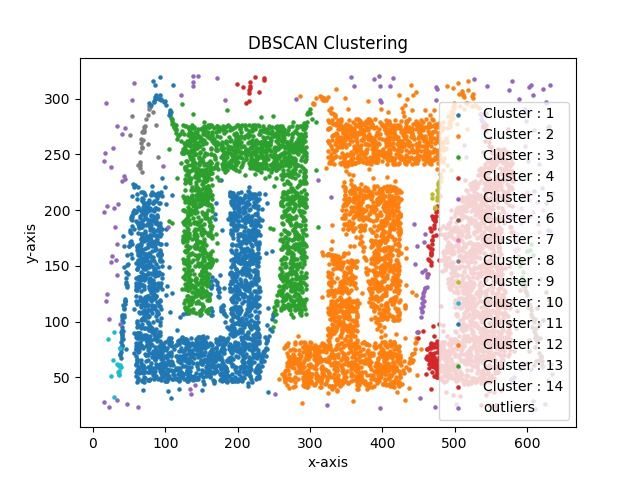
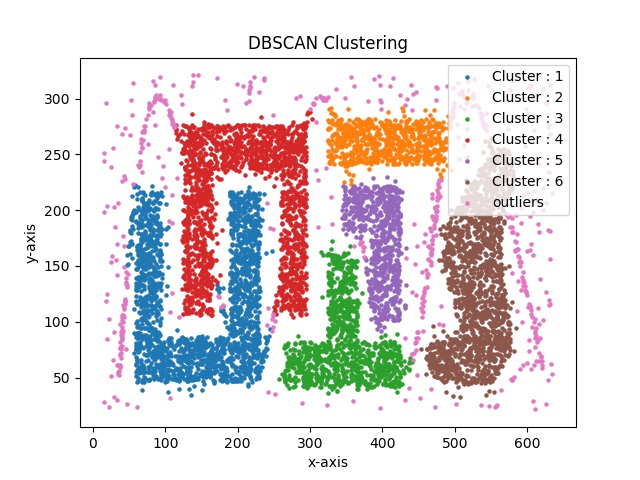
dbscan fixed

diff --git a/Cloud-Computing/dbscan/dbscan.py b/Cloud-Computing/dbscan/dbscan.py
@@ -1,3 +1,12 @@
+#!/bin/usr/python
+'''
+Author: SaiKumar Immadi
+Basic DBSCAN clustering algorithm written in python
+5th Semester @ IIIT Guwahati
+'''
+
+# You can use this code for free. Just don't plagiarise it for your lab assignments
+
 import sys
 from math import sqrt
 from random import randint
@@ -25,8 +34,8 @@ def main(argv):
     file.close()
     while(len(mainList)>0):
         point=mainList.pop(0)
-        mainEneigh=calcEneigh(point,1)
-        outEneigh=calcEneigh(point,2)
+        mainEneigh=calcEneigh(point,1,[])
+        outEneigh=calcEneigh(point,2,[])
         if(len(mainEneigh+outEneigh)>=minPts):
             cluster=calcCluster(point)
             clusters.append(cluster)
@@ -58,12 +67,14 @@ def main(argv):
     plt.show()
     return 0
 
-def calcEneigh(p,opt):
+def calcEneigh(p,opt,optList):
     global e,mainList,minPts,clusters,outliers
     if(opt==1):
         list=mainList
     elif(opt==2):
         list=outliers
+    elif(opt==3):
+    	list=optList
     eneigh=[]
     for point in list:
         x1=p[0]
@@ -82,14 +93,15 @@ def calcCluster(p):
     tempList.append(p)
     while(len(tempList)>0):
         point=tempList.pop(0)
-        mainEneigh=calcEneigh(point,1)
-        outEneigh=calcEneigh(point,2)
+        mainEneigh=calcEneigh(point,1,[])
+        outEneigh=calcEneigh(point,2,[])
+        clusterEneigh=calcEneigh(point,3,cluster+tempList)
         cluster.append(point)
         for x in mainEneigh:
             mainList.remove(x)
         for x in outEneigh:
             outliers.remove(x)
-        if(len(mainEneigh+outEneigh)>=minPts):
+        if(len(mainEneigh+outEneigh+clusterEneigh)>=minPts):
             tempList=tempList+mainEneigh+outEneigh
         else:
             cluster=cluster+mainEneigh+outEneigh
